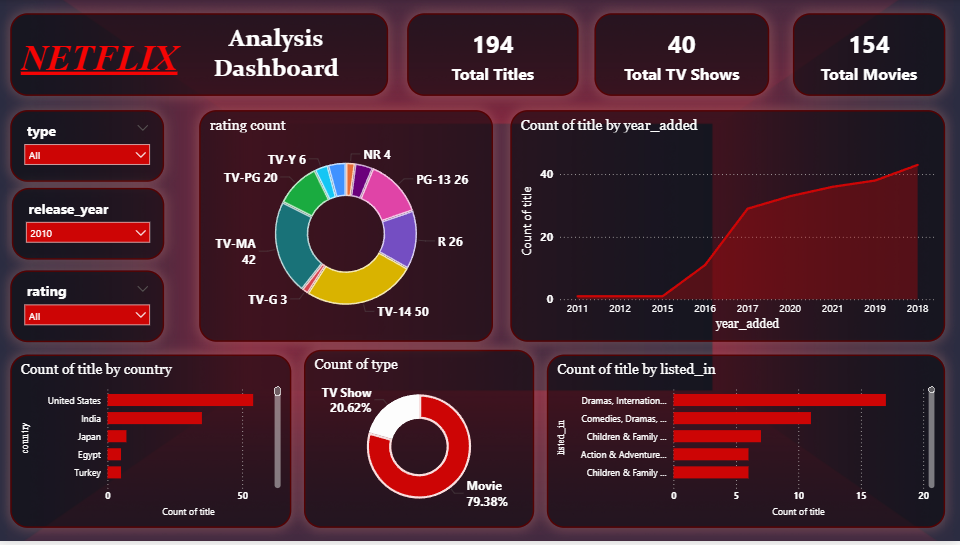
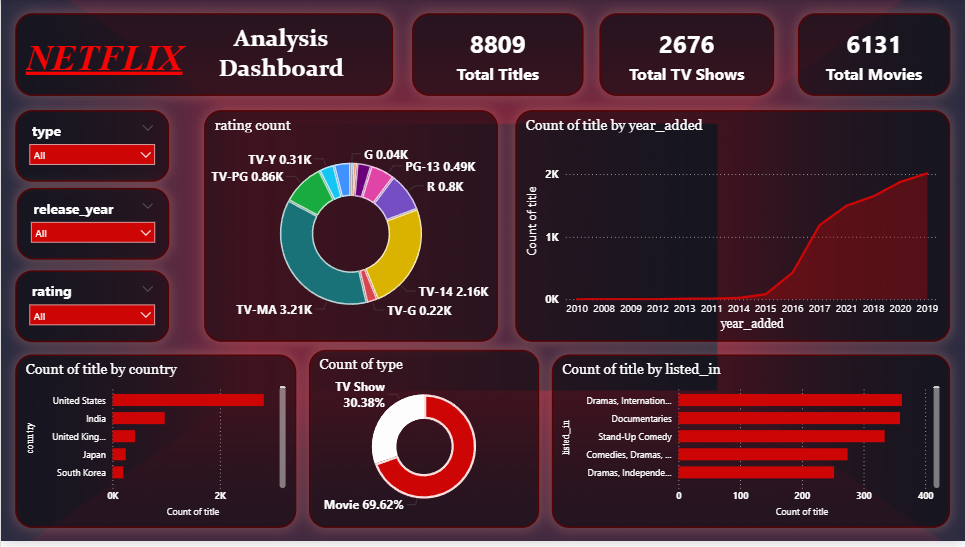
update

diff --git a/Project Reports/Netflix Data Anlaysis/report.md b/Project Reports/Netflix Data Anlaysis/report.md
@@ -1,40 +1,42 @@
-# 🎬 Netflix Analysis Dashboard – Data Analytics Report
+# 🎬 Netflix Content Analysis Dashboard – Data Analytics Report
 
 ## 📊 Project Overview
-The **Netflix Analysis Dashboard** is a data analytics project created to analyze Netflix content data and extract insights about titles, genres, ratings, release trends, and country-wise content distribution.
+The **Netflix Content Analysis Dashboard** is a data analytics project built to explore and analyze Netflix’s global content library. The dashboard provides insights into content distribution, ratings, genres, release trends, and country contributions.
 
-This dashboard helps understand how Netflix content is distributed across **movies, TV shows, genres, and countries**, and how the platform has expanded its content library over time.
-
----
-
-## 🎯 Objectives
-The main objectives of this project are:
-
-- Analyze the **distribution of movies and TV shows**
-- Understand **content trends over time**
-- Identify **popular genres on Netflix**
-- Analyze **content ratings**
-- Study **country-wise contribution of titles**
+Using interactive visualizations, the dashboard helps understand how Netflix's content library has evolved and what type of content dominates the platform.
 
 ---
 
-## 🛠 Tools & Technologies
-- **Power BI** – Data visualization and dashboard development
-- **Power Query** – Data cleaning and transformation
-- **DAX (Data Analysis Expressions)** – Calculations and measures
-- **Dataset** – Netflix titles dataset
+# 🎯 Objectives
+
+The main goals of this project are:
+
+- Analyze the **distribution of Movies and TV Shows**
+- Understand **Netflix content growth over time**
+- Identify **popular genres available on Netflix**
+- Study **content rating distribution**
+- Analyze **country-wise contribution of Netflix titles**
 
 ---
 
-## 📌 Key Performance Indicators (KPIs)
+# 🛠 Tools & Technologies
+
+- **Power BI** – Data visualization and dashboard creation  
+- **Power Query** – Data cleaning and transformation  
+- **DAX (Data Analysis Expressions)** – Data modeling and calculations  
+- **Dataset** – Netflix Movies & TV Shows Dataset  
+
+---
+
+# 📌 Key Performance Indicators (KPIs)
 
 | Metric | Value |
 |------|------|
-| Total Titles | **194** |
-| Total TV Shows | **40** |
-| Total Movies | **154** |
+| Total Titles | **8809** |
+| Total TV Shows | **2676** |
+| Total Movies | **6131** |
 
-These KPIs provide a quick summary of the Netflix dataset.
+These KPIs provide a quick summary of Netflix's total content available in the dataset.
 
 ---
 
@@ -42,124 +44,121 @@ These KPIs provide a quick summary of the Netflix dataset.
 
 ## 1⃣ Content Type Distribution
 
-| Type | Percentage |
-|------|------------|
-| Movies | **79.38%** |
-| TV Shows | **20.62%** |
+| Content Type | Percentage |
+|--------------|------------|
+| Movies | **69.62%** |
+| TV Shows | **30.38%** |
 
 **Insight:**  
-Movies dominate the Netflix dataset, indicating that Netflix still relies heavily on movie content compared to TV shows.
+Movies dominate Netflix’s content library, representing nearly **70% of all available titles**, while TV Shows account for approximately **30%**.
 
 ---
 
 ## 2⃣ Rating Distribution
-The rating chart displays how Netflix content is categorized based on audience suitability.
+
+The rating distribution chart shows how Netflix categorizes its content based on audience age groups.
 
 Major ratings include:
 
-- **TV-14** – 50 titles  
-- **TV-MA** – 42 titles  
-- **PG-13** – 26 titles  
-- **TV-PG** – 20 titles  
-- Other ratings include **TV-Y6, NR, PG, R**, etc.
+| Rating | Titles |
+|------|------|
+| TV-MA | 3.21K |
+| TV-14 | 2.16K |
+| R | 0.80K |
+| TV-PG | 0.86K |
+| PG-13 | 0.49K |
+| Others | Small proportion |
 
 **Insight:**  
-Most Netflix content falls under **TV-14 and TV-MA**, suggesting that the platform focuses mainly on **teen and mature audiences**.
+Most Netflix content falls under **TV-MA and TV-14 ratings**, indicating that the platform mainly targets **teen and mature audiences**.
 
 ---
 
-## 3⃣ Content Added Over Time
-The line chart shows the number of titles added to Netflix over different years.
+## 3⃣ Content Growth Over Time
 
-**Key Observations:**
+The **Titles Added by Year** line chart shows Netflix’s content expansion.
 
-- Content addition remained low before **2016**
-- Significant growth started around **2017**
-- Netflix rapidly increased its content library after that period
+Key observations:
+
+- Content growth remained relatively low before **2015**
+- A rapid increase occurred after **2016**
+- The highest number of titles were added between **2018 and 2020**
 
 **Insight:**  
-This growth reflects Netflix’s aggressive expansion strategy in recent years.
+Netflix significantly expanded its content library during the **late 2010s**, reflecting its global expansion strategy.
 
 ---
 
 ## 4⃣ Country-wise Content Distribution
-The bar chart highlights which countries contribute the most Netflix titles.
 
-Top contributing countries:
+The bar chart shows the countries that contribute the most titles to Netflix.
+
+Top contributing countries include:
 
 1. **United States**
 2. **India**
-3. **Japan**
-4. **Egypt**
-5. **Turkey**
+3. **United Kingdom**
+4. **Japan**
+5. **South Korea**
 
 **Insight:**  
-The **United States dominates Netflix content production**, while countries like **India and Japan** are also major contributors.
+The **United States dominates Netflix production**, while **India and Asian countries** are increasingly contributing more content.
 
 ---
 
 ## 5⃣ Genre Distribution
-This visualization shows the most common content categories on Netflix.
 
-Popular genres include:
+The genre analysis identifies the most common content categories on Netflix.
+
+Top genres include:
 
 - **Dramas & International Movies**
+- **Documentaries**
+- **Stand-Up Comedy**
 - **Comedies & Dramas**
-- **Children & Family Movies**
-- **Action & Adventure**
+- **Independent Dramas**
 
 **Insight:**  
-Drama-based content appears most frequently in the dataset, making it the most dominant genre.
+Drama-based content is the most dominant genre in the Netflix dataset.
 
 ---
 
-## 🎛 Dashboard Filters
-The dashboard provides interactive filters to explore the dataset more effectively.
+# 🎛 Dashboard Filters
 
-Filters available:
+The dashboard provides interactive filters for deeper exploration:
 
 - **Type (Movie / TV Show)**
 - **Release Year**
 - **Rating**
 
-These filters allow users to explore specific segments of Netflix content.
+These filters allow users to analyze specific segments of Netflix content.
 
 ---
 
 # 📊 Key Findings
 
-- **Movies dominate Netflix content**, representing nearly 80% of titles.
-- **TV-14 and TV-MA** are the most common content ratings.
-- Netflix content growth accelerated significantly after **2017**.
-- **United States produces the largest share of Netflix content**.
-- **Drama-related genres are the most popular categories** on the platform.
+- Netflix hosts **over 8800 titles** in the dataset.
+- **Movies dominate the platform**, making up nearly **70% of total content**.
+- **TV-MA and TV-14** are the most common content ratings.
+- Netflix saw **rapid content growth after 2016**.
+- The **United States produces the majority of Netflix content**.
+- **Drama and international content are the most common genres**.
 
 ---
 
 # 🚀 Conclusion
-The **Netflix Analysis Dashboard** provides valuable insights into the platform's content distribution, audience targeting, and growth trends.
 
-Through data visualization, it becomes easier to understand:
+The **Netflix Content Analysis Dashboard** demonstrates how data analytics can be used to understand streaming platform trends.
 
-- Content type balance
-- Audience rating trends
-- Geographic distribution of content
-- Popular genres on Netflix
+By analyzing Netflix content data, we can observe:
 
-Such insights can help streaming platforms make **strategic content decisions** and improve their entertainment offerings.
+- Content distribution across movies and TV shows
+- Audience targeting through ratings
+- Geographic distribution of productions
+- Popular genres among viewers
 
----
+These insights can help streaming platforms improve **content strategy, audience targeting, and platform growth**.
 
-# 🔮 Future Improvements
-
-Potential enhancements for this project include:
-
-- Sentiment analysis on **Netflix reviews**
-- Predictive models for **popular genres**
-- Content recommendation analytics
-- Trend forecasting for **future content demand**
-
----
 
 ## 📷 Dashboard Preview
 
